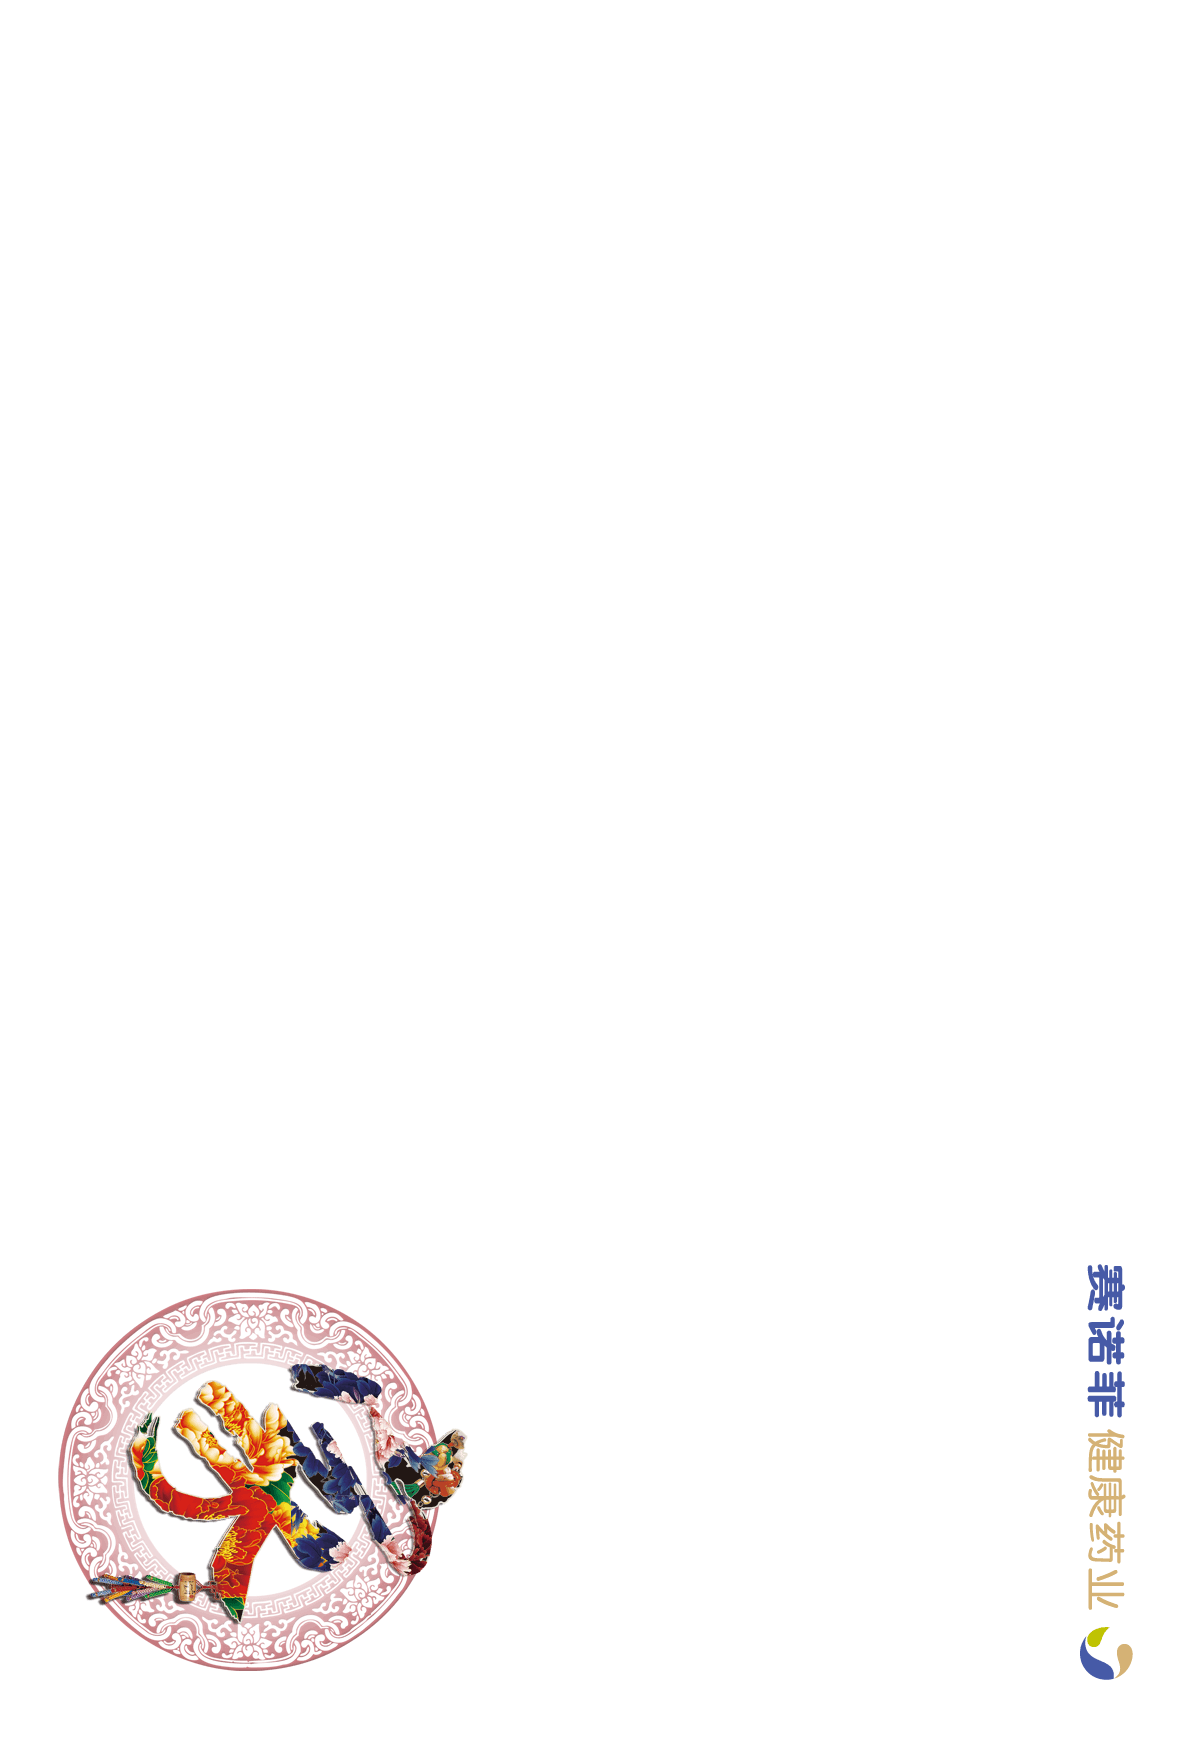
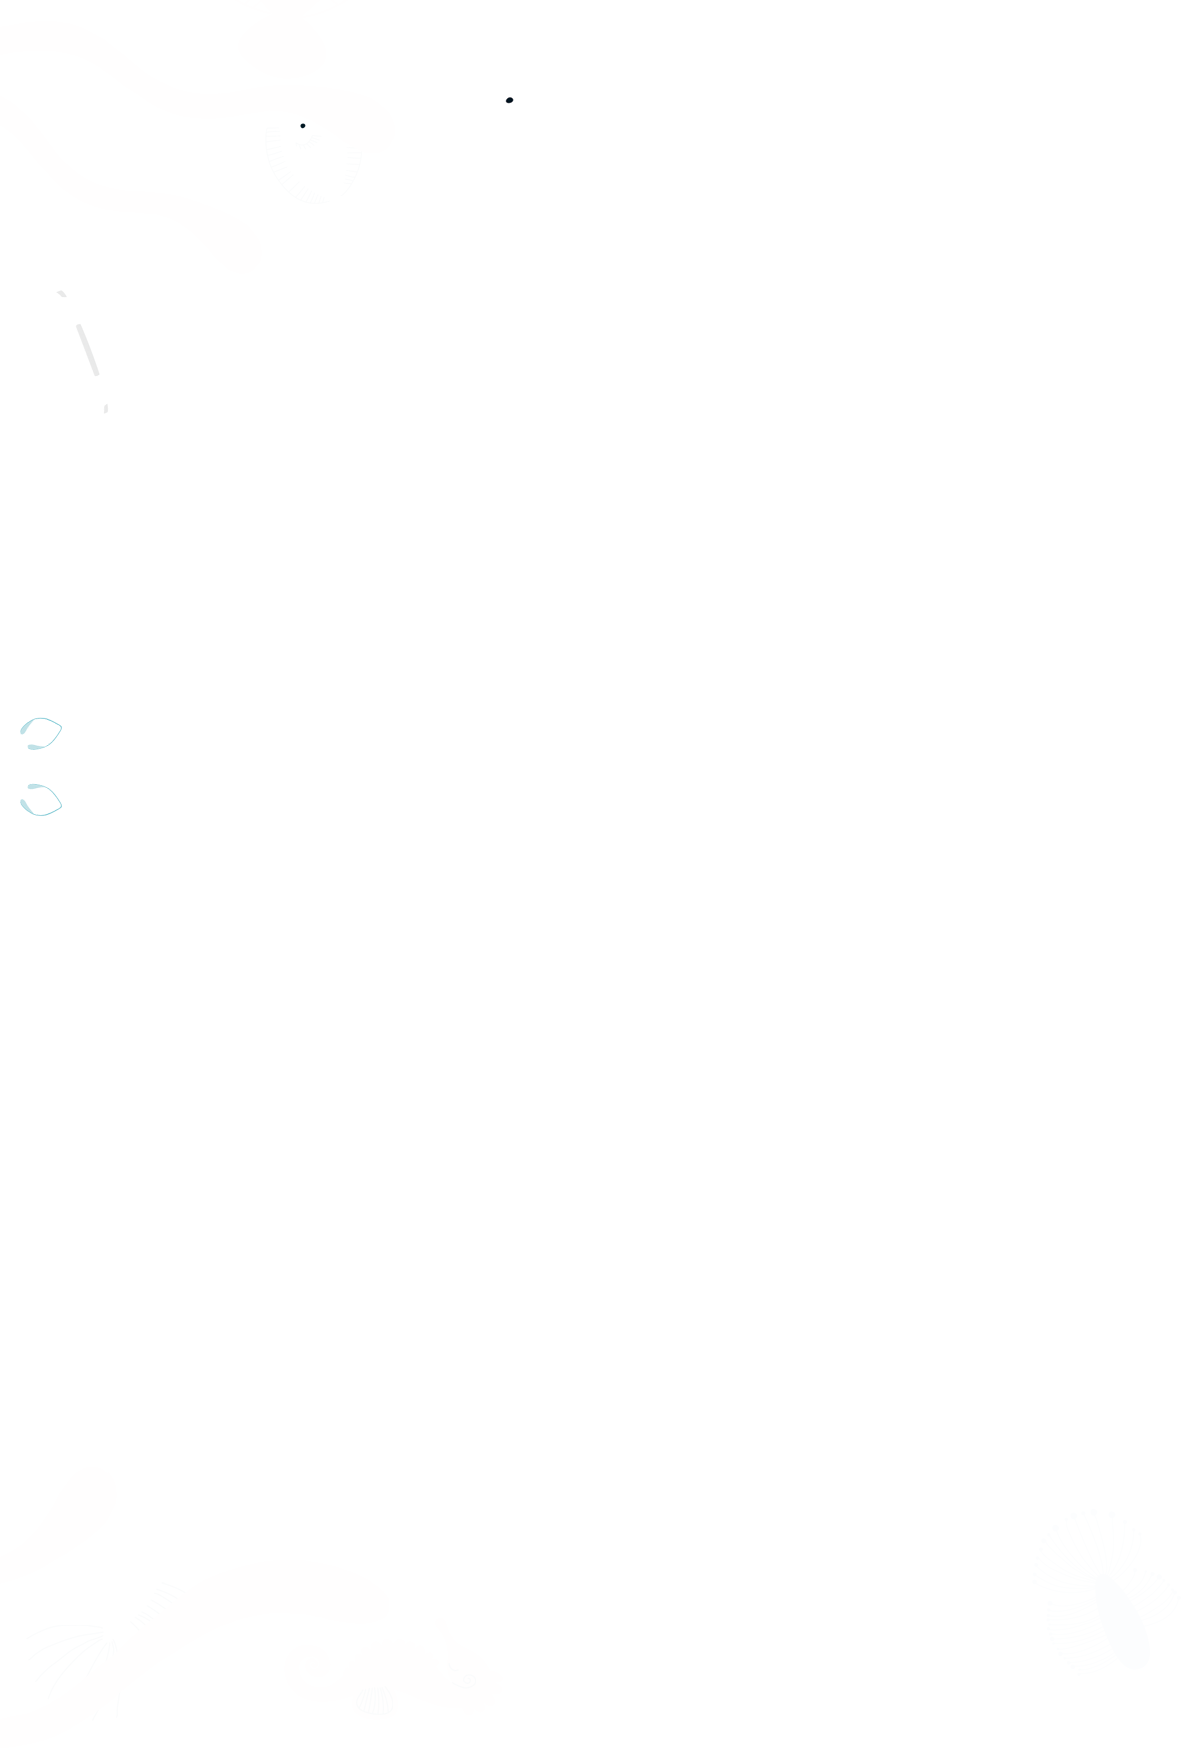
Remove sanofi template

Changed region(s): [[0.0305, 0.7414, 0.3963, 0.9577], [0.9145, 0.7105, 0.9754, 0.9577]]

diff --git a/public/js/preview.js b/public/js/preview.js
@@ -78,7 +78,7 @@
 
         var a = pic_orig_w, b = pic_orig_h;
         var selectedTemplateIndex = order.getPostcard().getImage().getTemplateIndex();
-        var isRotate = (selectedTemplateIndex >= 8);
+        var isRotate = (selectedTemplateIndex >= 3);
         var imageOffsetX = order.getPostcard().getImage().getOffsetX();
         var imageOffsetY = order.getPostcard().getImage().getOffsetY();
 

diff --git a/module/Wxpay/src/Wxpay/Controller/WxpayController.php b/module/Wxpay/src/Wxpay/Controller/WxpayController.php
@@ -19,7 +19,7 @@ define('PAYED',   101); // 已支付
 define('PRINTED', 102); // 已打印
 define('SHIPPED', 103); // 已发货
 
-define('JS_TAG', '201501150042');
+define('JS_TAG', '201501201646');
 
 class WxpayController extends AbstractActionController
 {

diff --git a/module/Postcard/src/Postcard/Controller/PostcardController.php b/module/Postcard/src/Postcard/Controller/PostcardController.php
@@ -30,7 +30,7 @@ define('LEFT', 0);
 define('RIGHT', 1);
 define('CENTER', 2);
 
-define('JS_TAG', '201501151230');
+define('JS_TAG', '201501201646');
 
 class PostcardController extends AbstractActionController
 {
